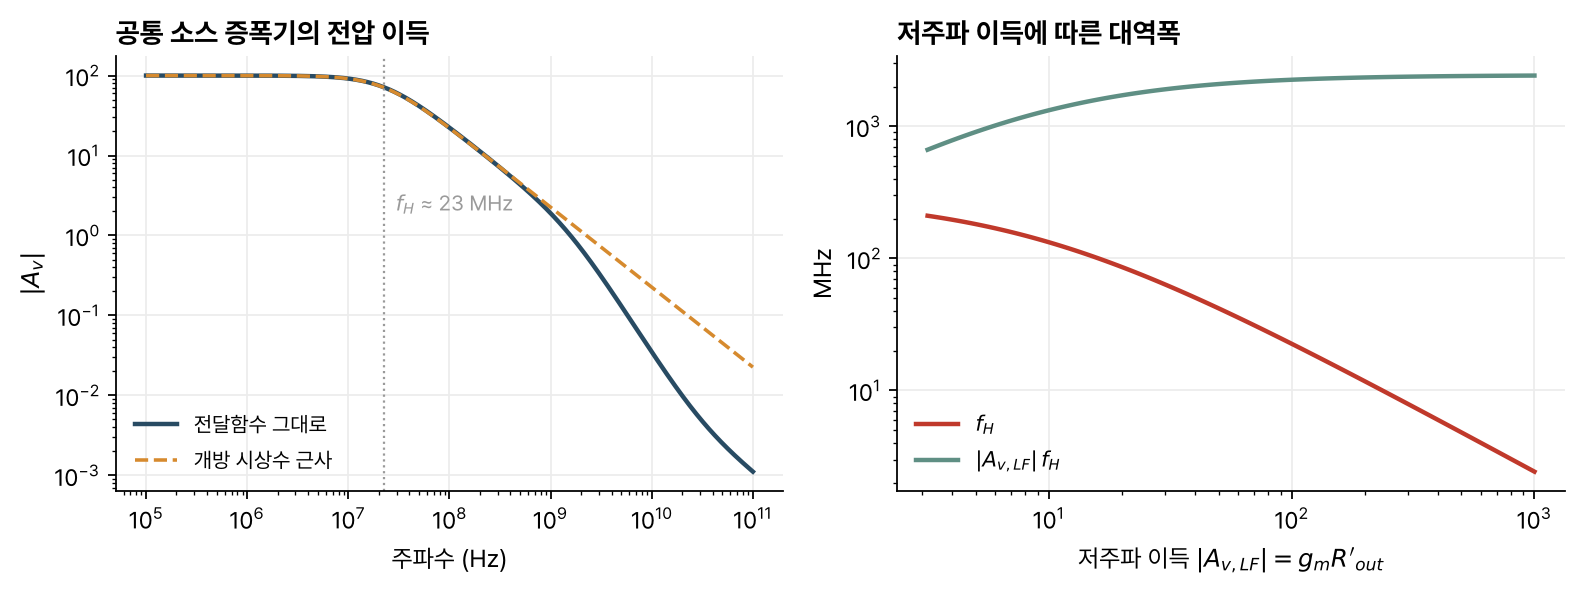
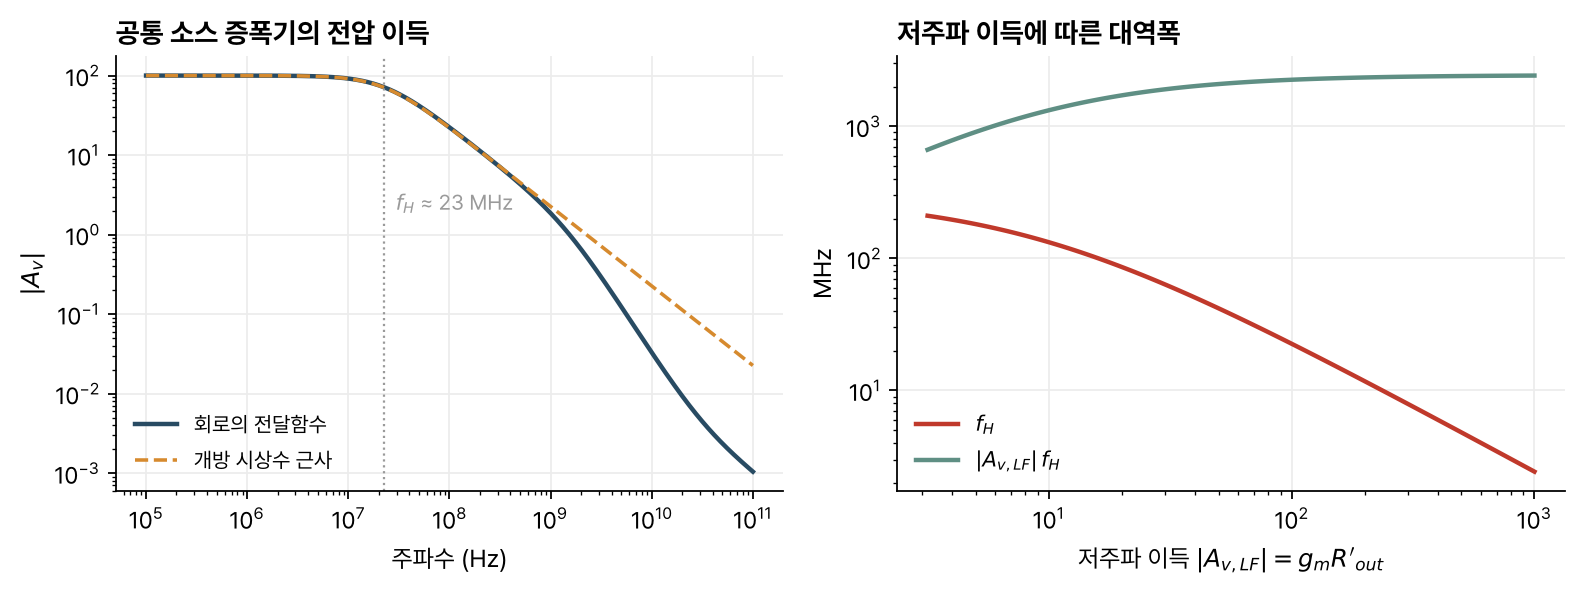
Fix review findings in 6.012 amplifier frequency response note
Claude-Session: https://claude.ai/code/session_01DRUnFxFn4g3T7a1hqi5YWp

diff --git a/scripts/figures/amp_frequency.py b/scripts/figures/amp_frequency.py
@@ -16,7 +16,7 @@ GM, CGS, CGD, CDB, RS = 1e-3, 50e-15, 5e-15, 10e-15, 10e3
 
 def cs_exact(w, rout):
     num = -(GM - 1j * w * CGD) * rout
-    den = 1 + 1j * w * (RS * CGS + RS * CGD * (1 + rout * (1 / RS + GM)) + rout * CDB) - w**2 * RS * rout * CGS * (CGD + CDB)
+    den = 1 + 1j * w * (RS * CGS + RS * CGD * (1 + rout * (1 / RS + GM)) + rout * CDB) - w**2 * RS * rout * (CGS * CGD + CGS * CDB + CGD * CDB)
     return num / den
 
 
@@ -29,7 +29,7 @@ f = np.logspace(5, 11, 800)
 w = 2 * np.pi * f
 ROUT = 100e3
 fig, axes = plt.subplots(1, 2, figsize=(10, 3.8))
-axes[0].loglog(f, np.abs(cs_exact(w, ROUT)), color=BLUE, lw=2, label="전달함수 그대로")
+axes[0].loglog(f, np.abs(cs_exact(w, ROUT)), color=BLUE, lw=2, label="회로의 전달함수")
 fh = 1 / (2 * np.pi * oct_tau(ROUT))
 axes[0].loglog(f, GM * ROUT / np.sqrt(1 + (f / fh) ** 2), color=ORANGE, lw=1.6, ls="--", label="개방 시상수 근사")
 axes[0].axvline(fh, color=GRAY, ls=":", lw=1)
@@ -54,6 +54,8 @@ save(fig, ARTICLE, "cs-bandwidth.png")
 ft = GM / (2 * np.pi * (CGS + CGD))
 taus = (RS * CGS, (ROUT + RS * (1 + GM * ROUT)) * CGD, ROUT * CDB)
 print(f"fT = {ft/1e9:.2f} GHz, fH = {fh/1e6:.1f} MHz, taus (ns) = {[round(t*1e9,2) for t in taus]}")
+i3 = np.argmin(np.abs(np.abs(cs_exact(w, ROUT)) - GM * ROUT / np.sqrt(2)))
+print(f"exact -3 dB = {f[i3]/1e6:.1f} MHz")
 print(f"Miller C = {CGD*(1+GM*ROUT)*1e15:.0f} fF")
 # 캐스코드: τgd1 ≈ [1/gm2 + RS(1 + gm1/gm2)]Cgd1 (gmb 무시), 출력 마디는 같은 R'out에 Cgd2 + Cdb2
 tau_c = RS * CGS + (1 / GM + RS * 2) * CGD + (1 / GM) * (CDB + CGS) + ROUT * (CGD + CDB)
